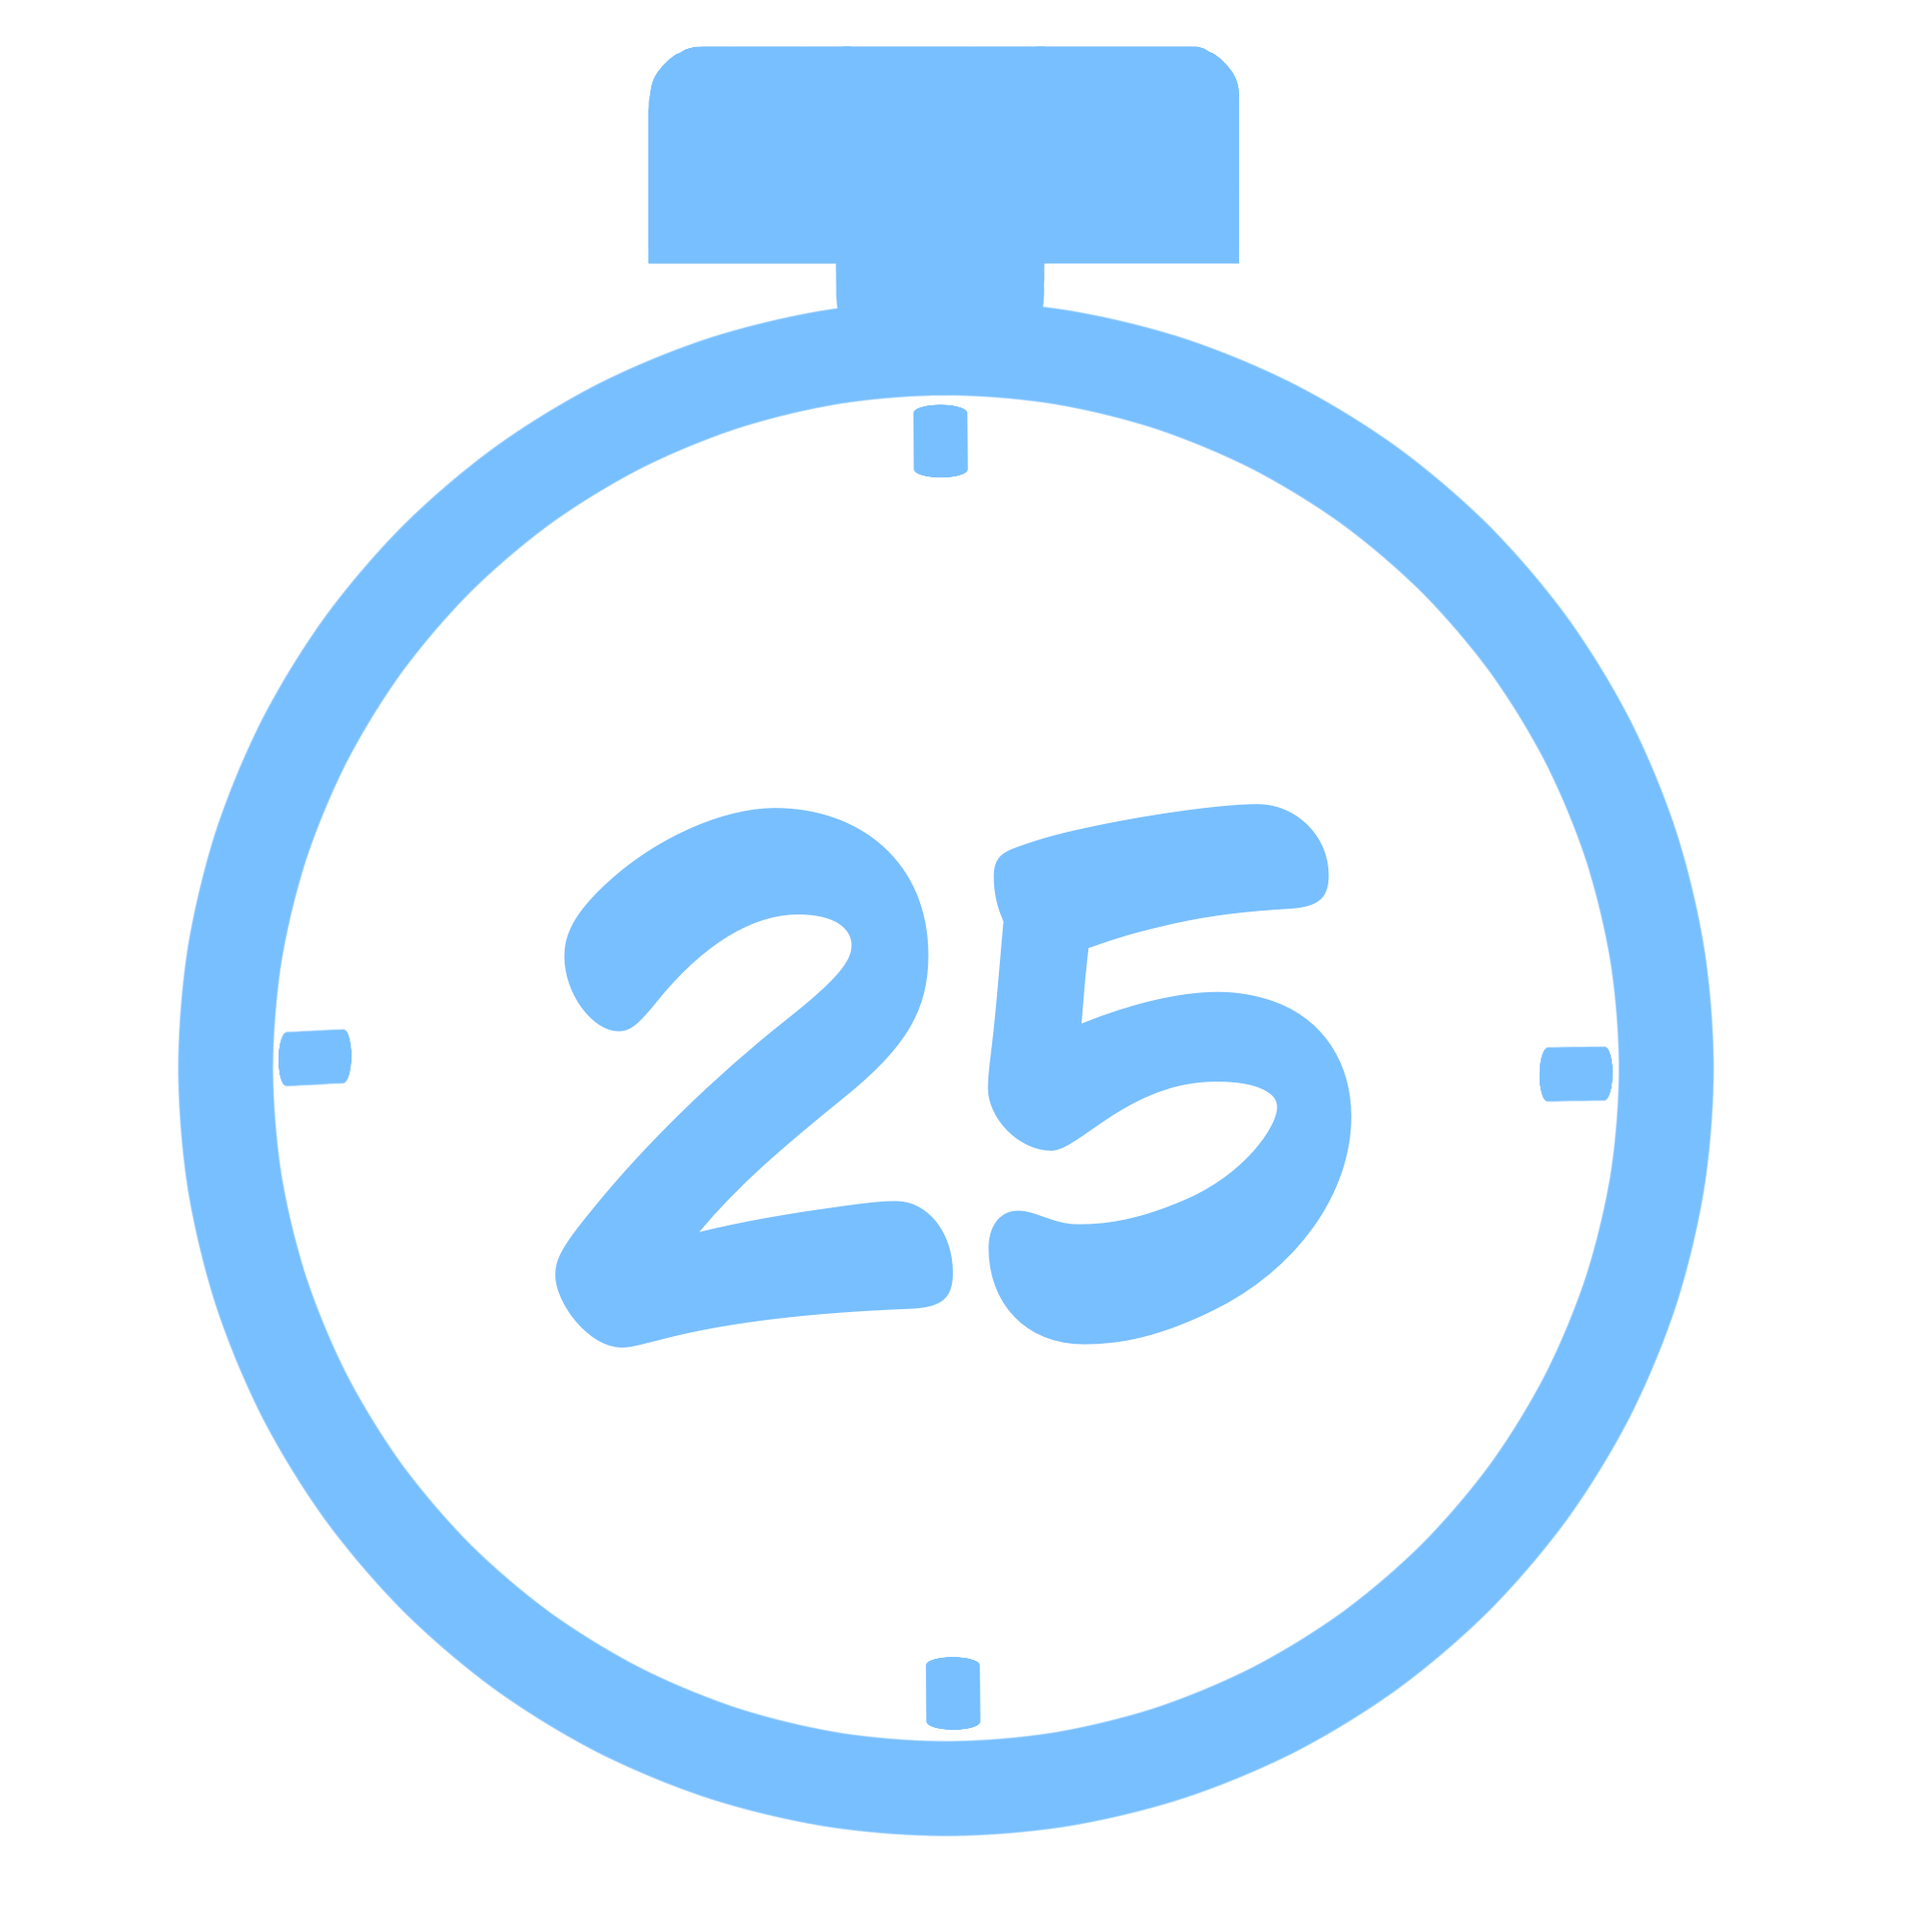
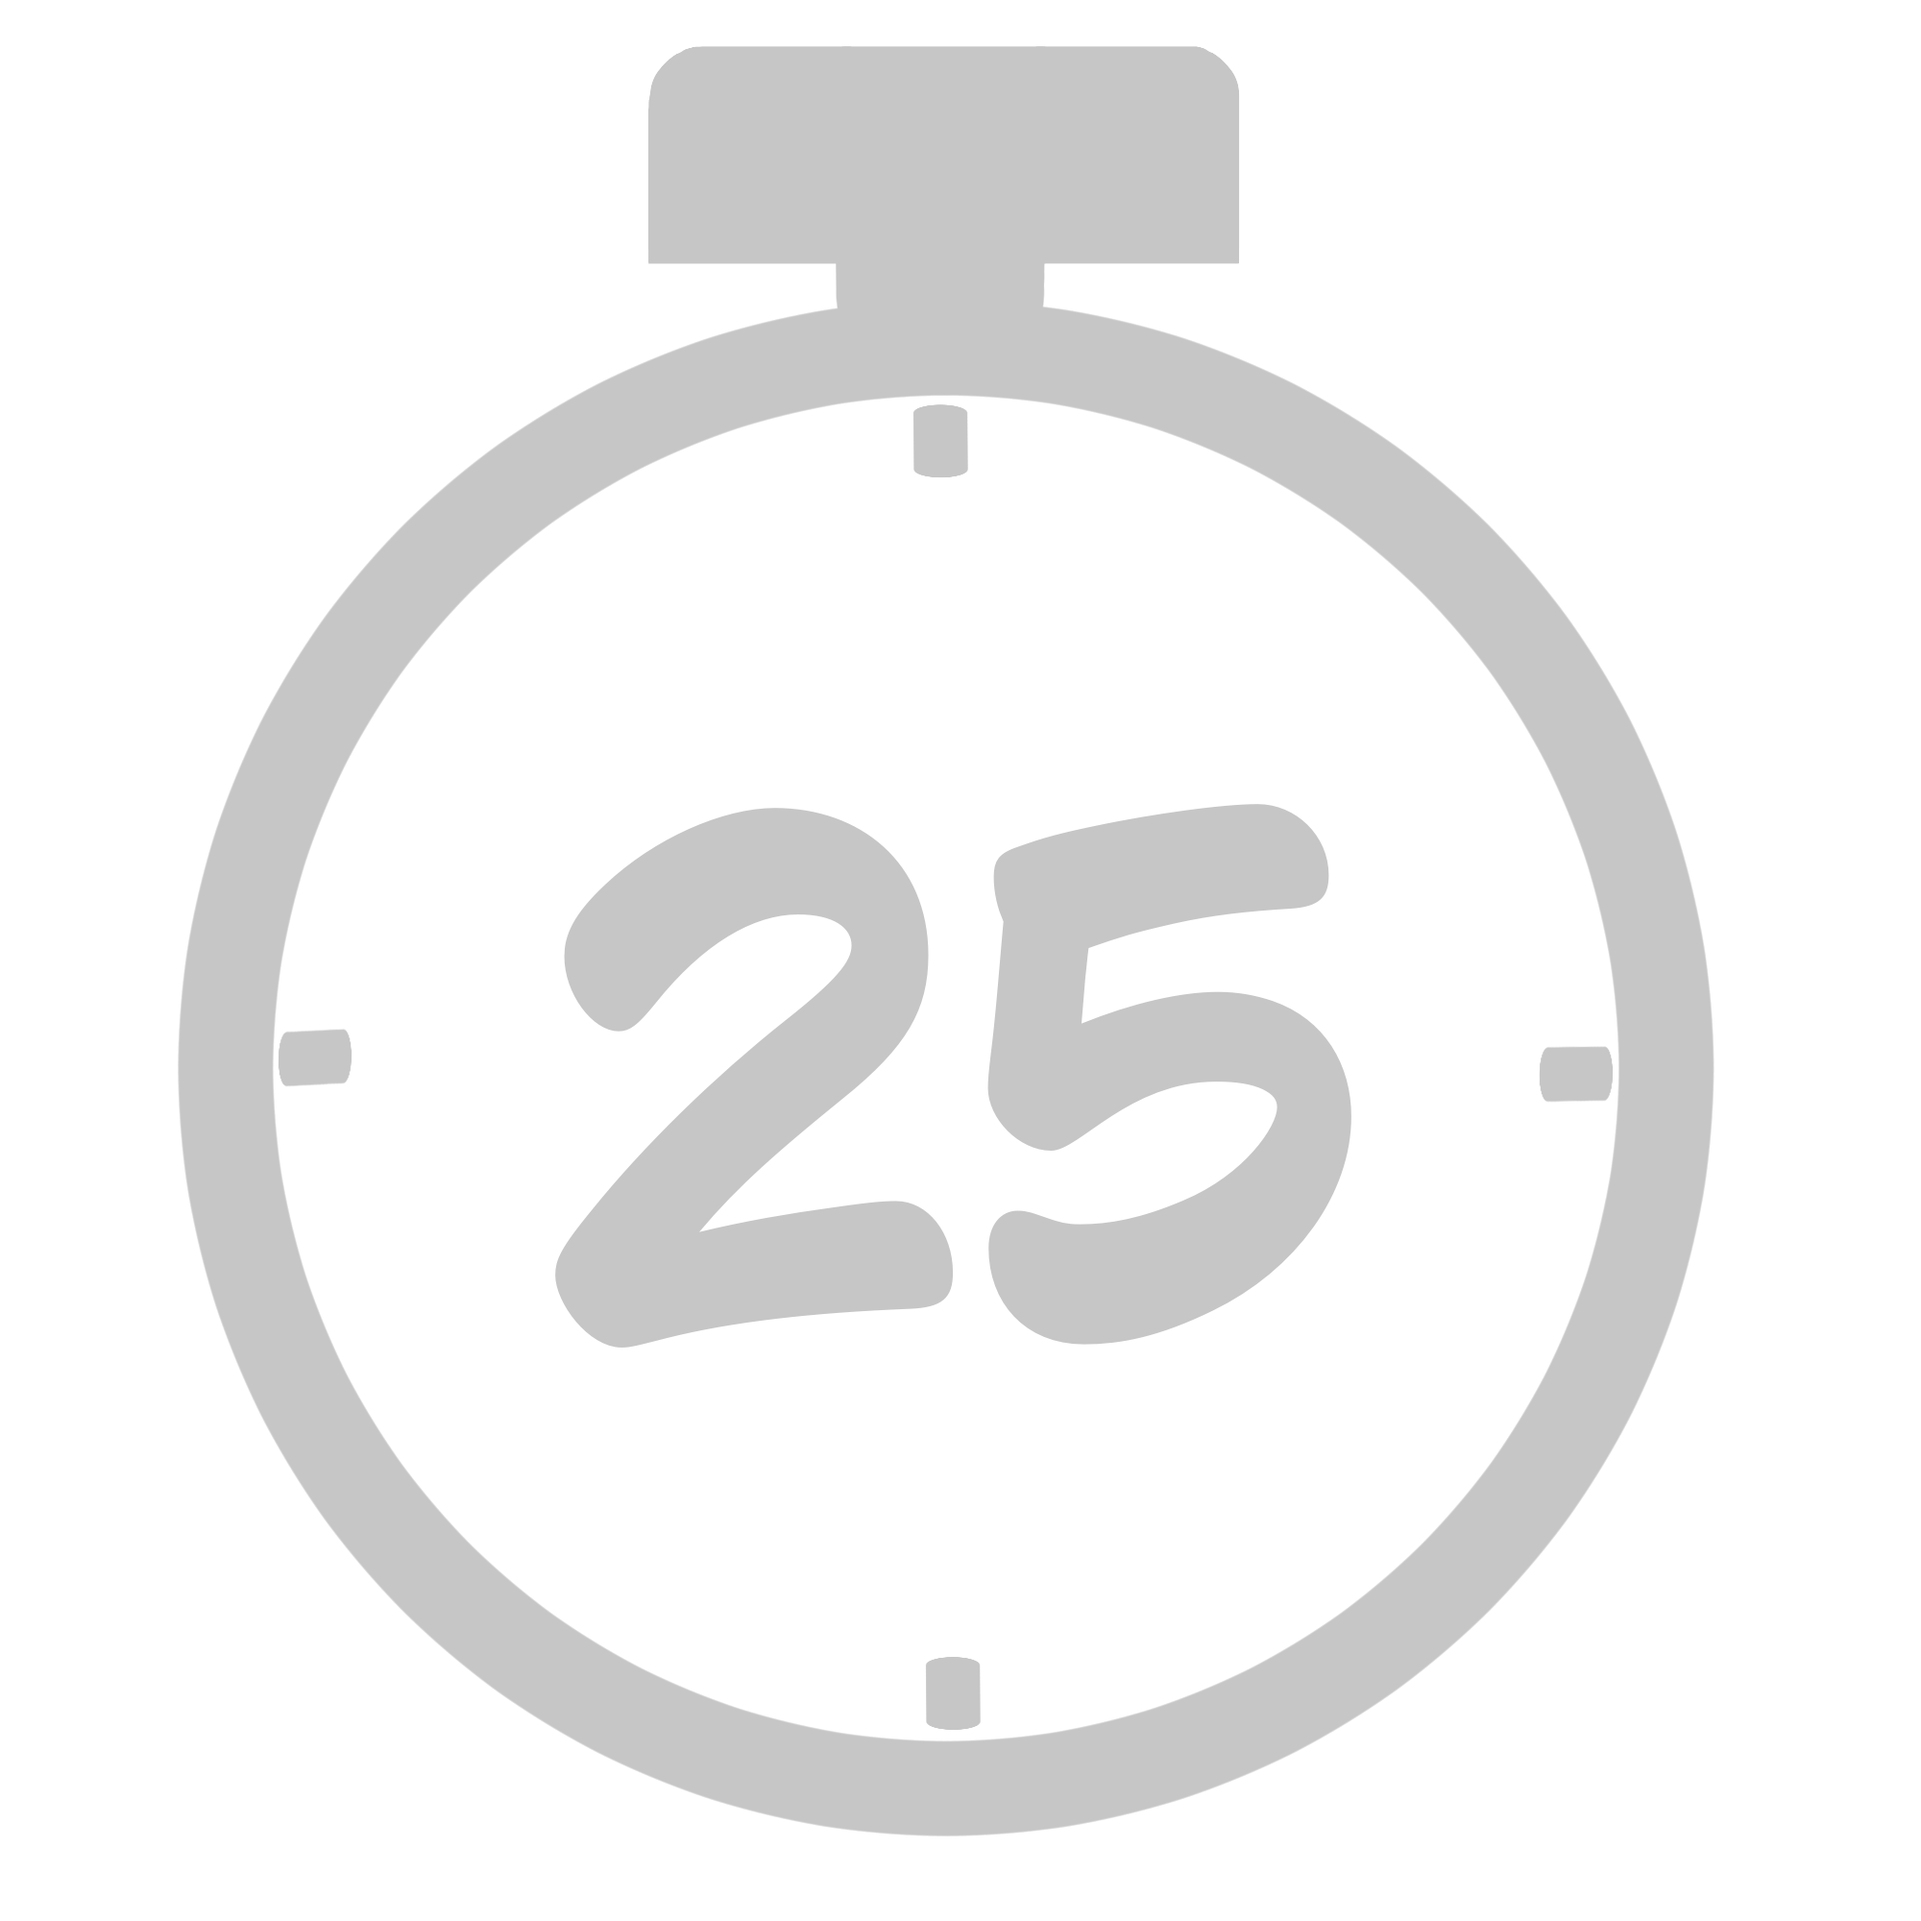
style: edit styles
친구목록 리스크 길이가 짧아서 좀 늘림
앱아이콘 변경
초록색 버튼 색 수정
테마선택 페이지 구조 수정
타이머 폰트 추가

Changed region(s): [[0.093, 0.0, 0.899, 0.961], [0.279, 0.403, 0.713, 0.713]]

diff --git a/src/pages/Theme.tsx b/src/pages/Theme.tsx
@@ -1,18 +1,6 @@
 import { useNavigate } from "react-router-dom";
 //import BlueArrow from "../images/blueArrow.png";
 
-//아직 수정중
-export function setAppicon(path: string) {
-  const link: HTMLLinkElement | null = document.querySelector("link[rel~='icon']");
-  if (link) {
-    link.href = path;
-  } else {
-    const newLink = document.createElement("link");
-    newLink.rel = "icon";
-    newLink.href = path;
-    document.head.appendChild(newLink);
-  }
-}
 
 function setTheme(theme: "default" | "blue" | "pink" | "green") {
   if (theme === "default") {
@@ -33,23 +21,26 @@ const Theme = () => {
 
 
   return (
-    <div className="bg-[var(--color-bg)] min-h-screen">
-      <button
-        onClick={goBack}
-        className="absolute top-4 left-4 flex items-center gap-1 text-sm hover:text-black"
-      >
-        {/* <img src={BlueArrow} alt="goBack" className="w-8 h-8" /> */}
-        ❮ 뒤로가기
-      </button>
-      <div className="p-6">
-        <h1 className="text-xl font-bold mb-4">테마 선택</h1>
-        <div className="flex gap-3">
-          <button onClick={() => setTheme("default")} className="bg-gray-200 px-4 py-2 rounded">기본</button>
-          <button onClick={() => setTheme("blue")} className="bg-blue-200 px-4 py-2 rounded">파랑</button>
-          <button onClick={() => setTheme("pink")} className="bg-pink-200 px-4 py-2 rounded">핑크</button>
-          <button onClick={() => setTheme("green")} className="bg-green-200 px-4 py-2 rounded">초록</button>
+    <div className="flex pt-10 justify-center bg-[var(--color-bg)] font-['IBM_Plex_Sans_KR'] min-h-screen">
+      <div className="w-[480px] h-[480px] shadow-md border rounded-md px-6 py-8 bg-white">
+        <button
+          onClick={goBack}
+          className="absolute top-4 left-4 flex items-center gap-1 text-sm hover:text-black"
+        >
+          {/* <img src={BlueArrow} alt="goBack" className="w-8 h-8" /> */}
+          ❮ 뒤로가기
+        </button>
+        <div className="p-6">
+          <h1 className="text-2xl font-bold mb-4 text-center pb-10">테마 선택</h1>
+          <div className="flex flex-col items-center justify-center gap-7">
+            <button onClick={() => setTheme("default")} className="bg-gray-200 px-4 py-2 rounded">기본</button>
+            <button onClick={() => setTheme("blue")} className="bg-blue-200 px-4 py-2 rounded">파랑</button>
+            <button onClick={() => setTheme("pink")} className="bg-pink-200 px-4 py-2 rounded">핑크</button>
+            <button onClick={() => setTheme("green")} className="bg-green-200 px-4 py-2 rounded">초록</button>
+          </div>
         </div>
       </div>
+      
     </div>
   );
 };

diff --git a/src/components/FriendCard.tsx b/src/components/FriendCard.tsx
@@ -15,7 +15,7 @@ const FriendCard = ({ nickname, status, onDelete }: FriendCardProps) => {
   const randomColor = pastelColors[Math.floor(Math.random() * pastelColors.length)];
 
   return (
-    <div className="flex items-center justify-between p-3 bg-white rounded-md shadow">
+    <div className="flex items-center justify-between p-3 bg-white rounded-md shadow min-w-[380px]">
       <div className="flex items-center gap-4">
         <div
           className="w-10 h-10 rounded-full flex items-center justify-center"

diff --git a/src/pages/TimerPage.tsx b/src/pages/TimerPage.tsx
@@ -13,7 +13,7 @@ const TimerPage = () => {
   };
 
   return (
-    <div className="min-h-screen bg-[var(--color-bg)] flex flex-col items-center justify-center relative">
+    <div className="min-h-screen font-['IBM_Plex_Sans_KR'] bg-[var(--color-bg)] flex flex-col items-center justify-center relative">
       {/* 화면 왼쪽 상단 고정 뒤로가기 버튼 */}
       <button
         onClick={goBack}

diff --git a/src/index.css b/src/index.css
@@ -34,8 +34,8 @@
     --color-bg: #f0fdf4;
     --color-accent: #16a34a;
     --color-timer: #d4ffd0;
-    --color-btn: #a9eec2;
-    --color-btn-hover: #53e789;;
+    --color-btn:rgb(111, 212, 148);
+    --color-btn-hover:rgb(40, 199, 98);;
     --color-week-graph: rgb(117, 224, 156);;
     --color-month-graph:rgb(16, 192, 80);
   }
